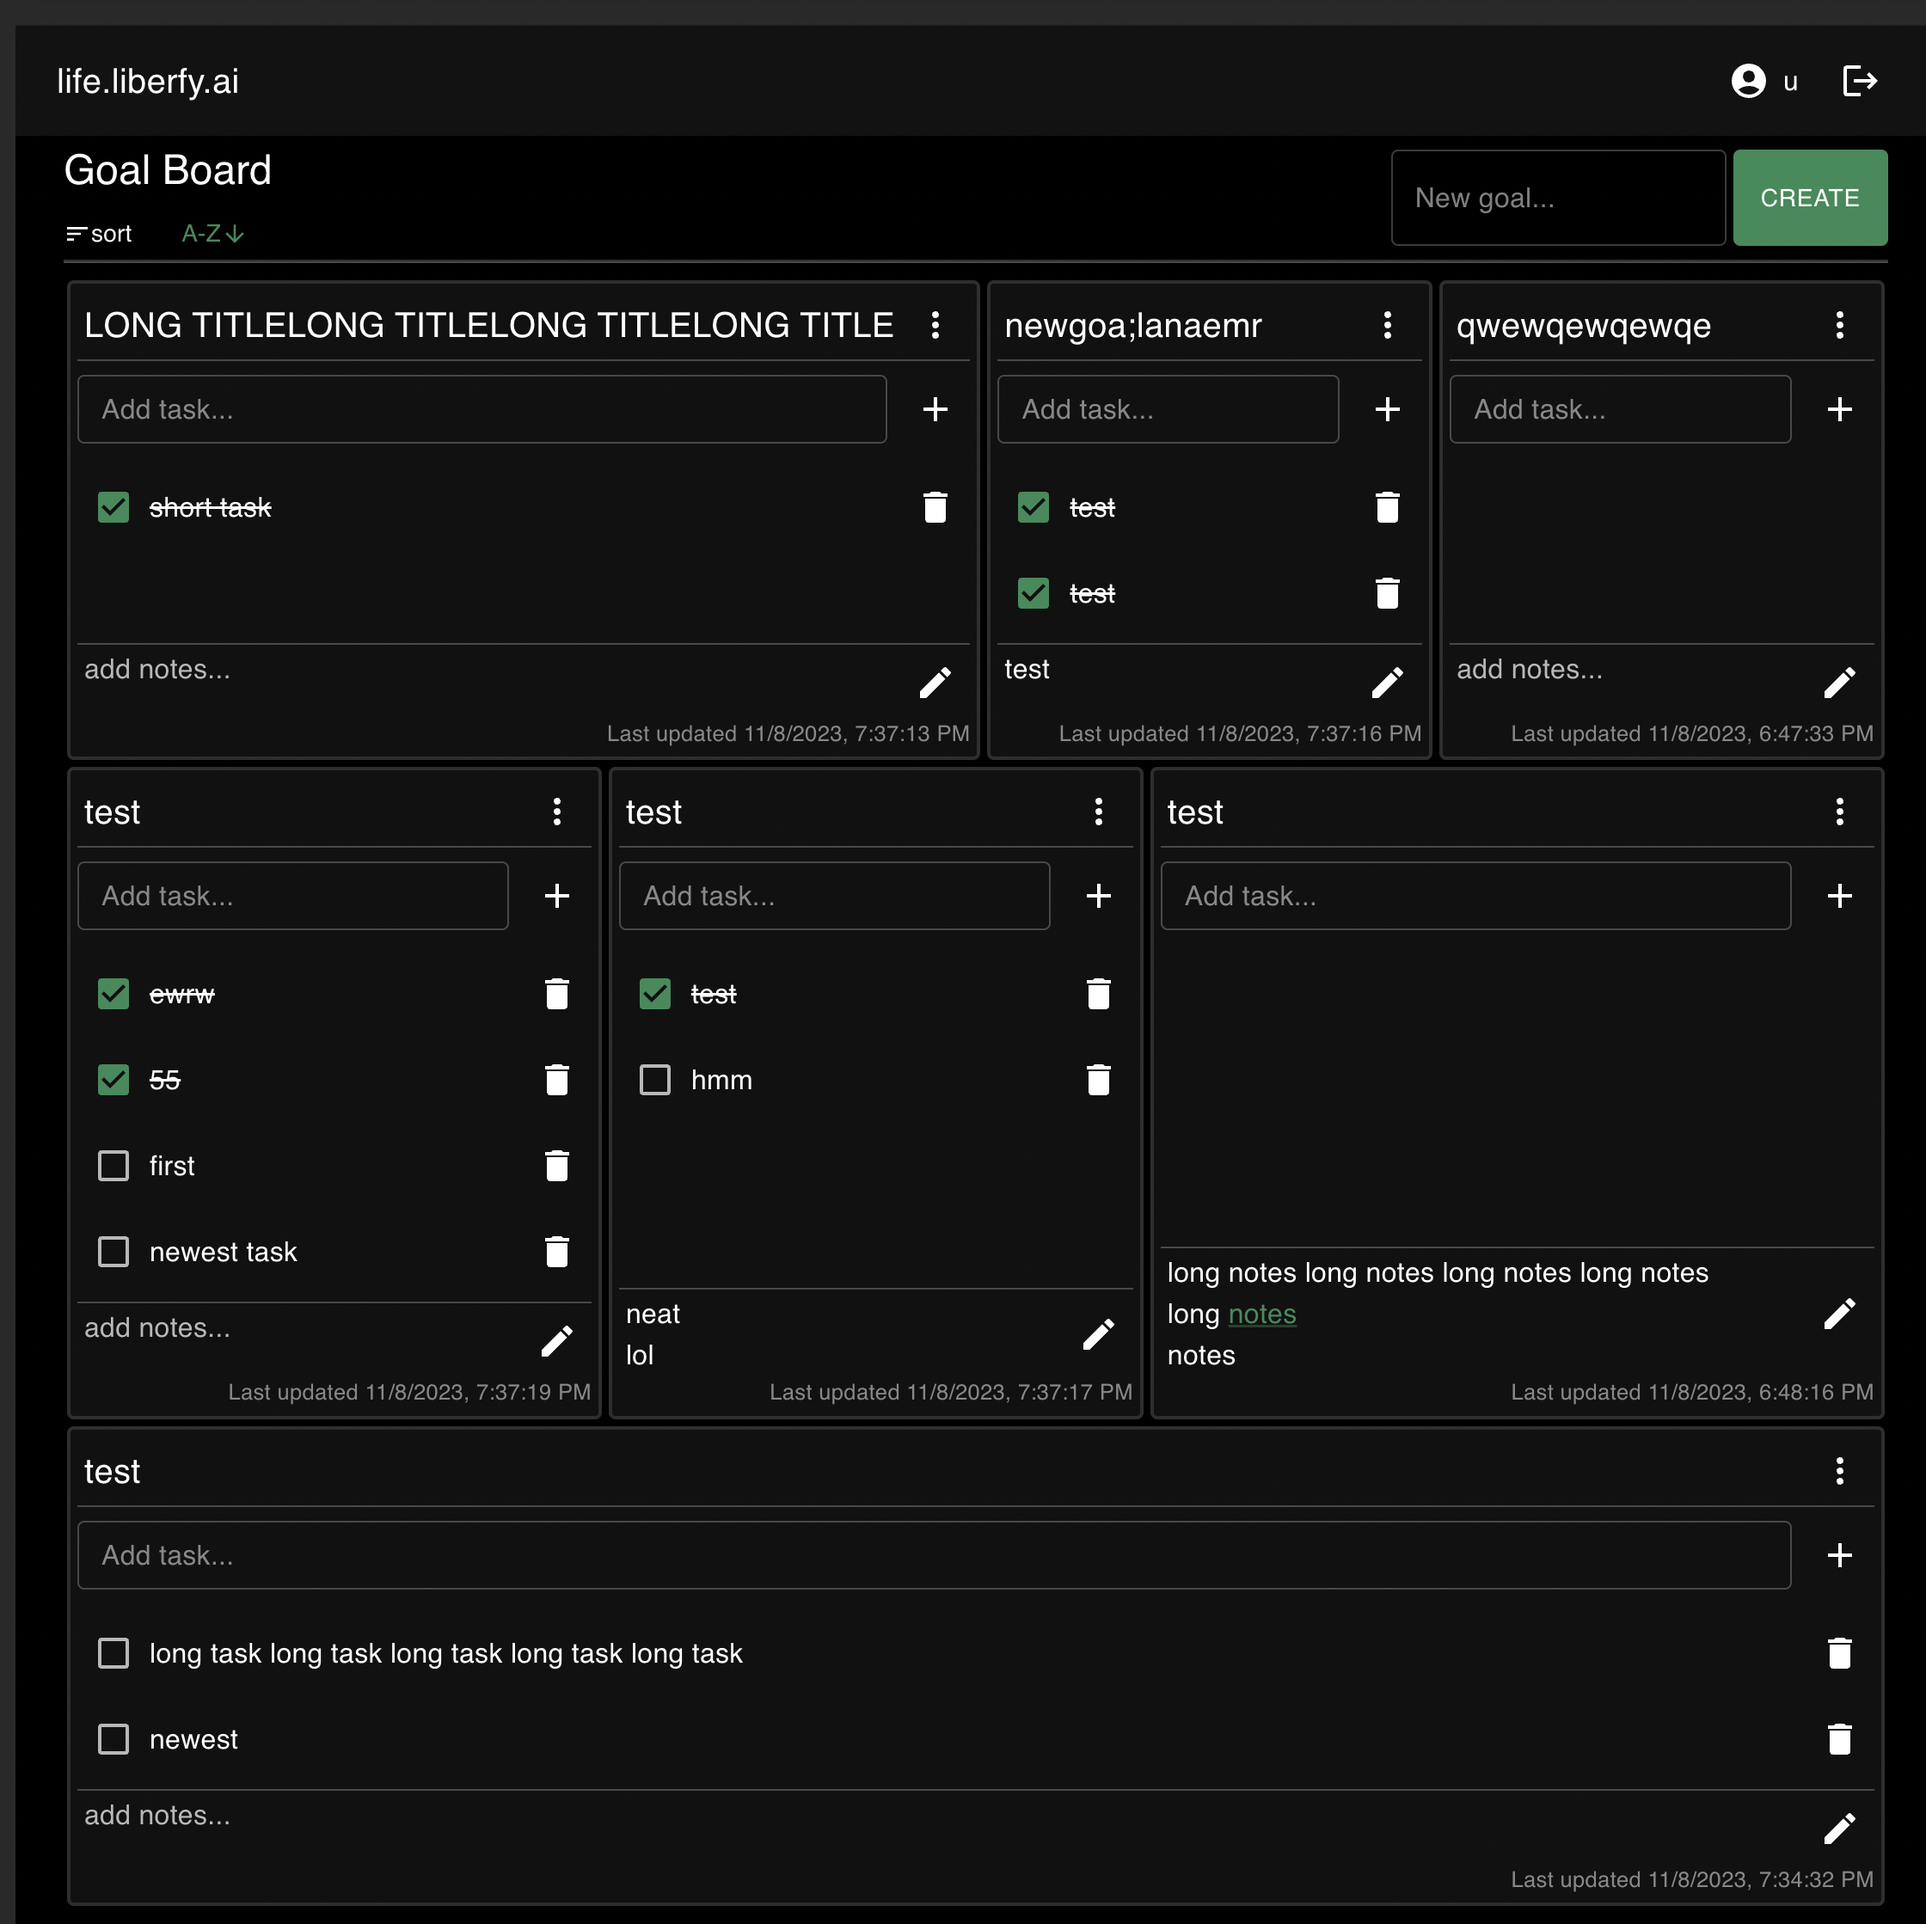
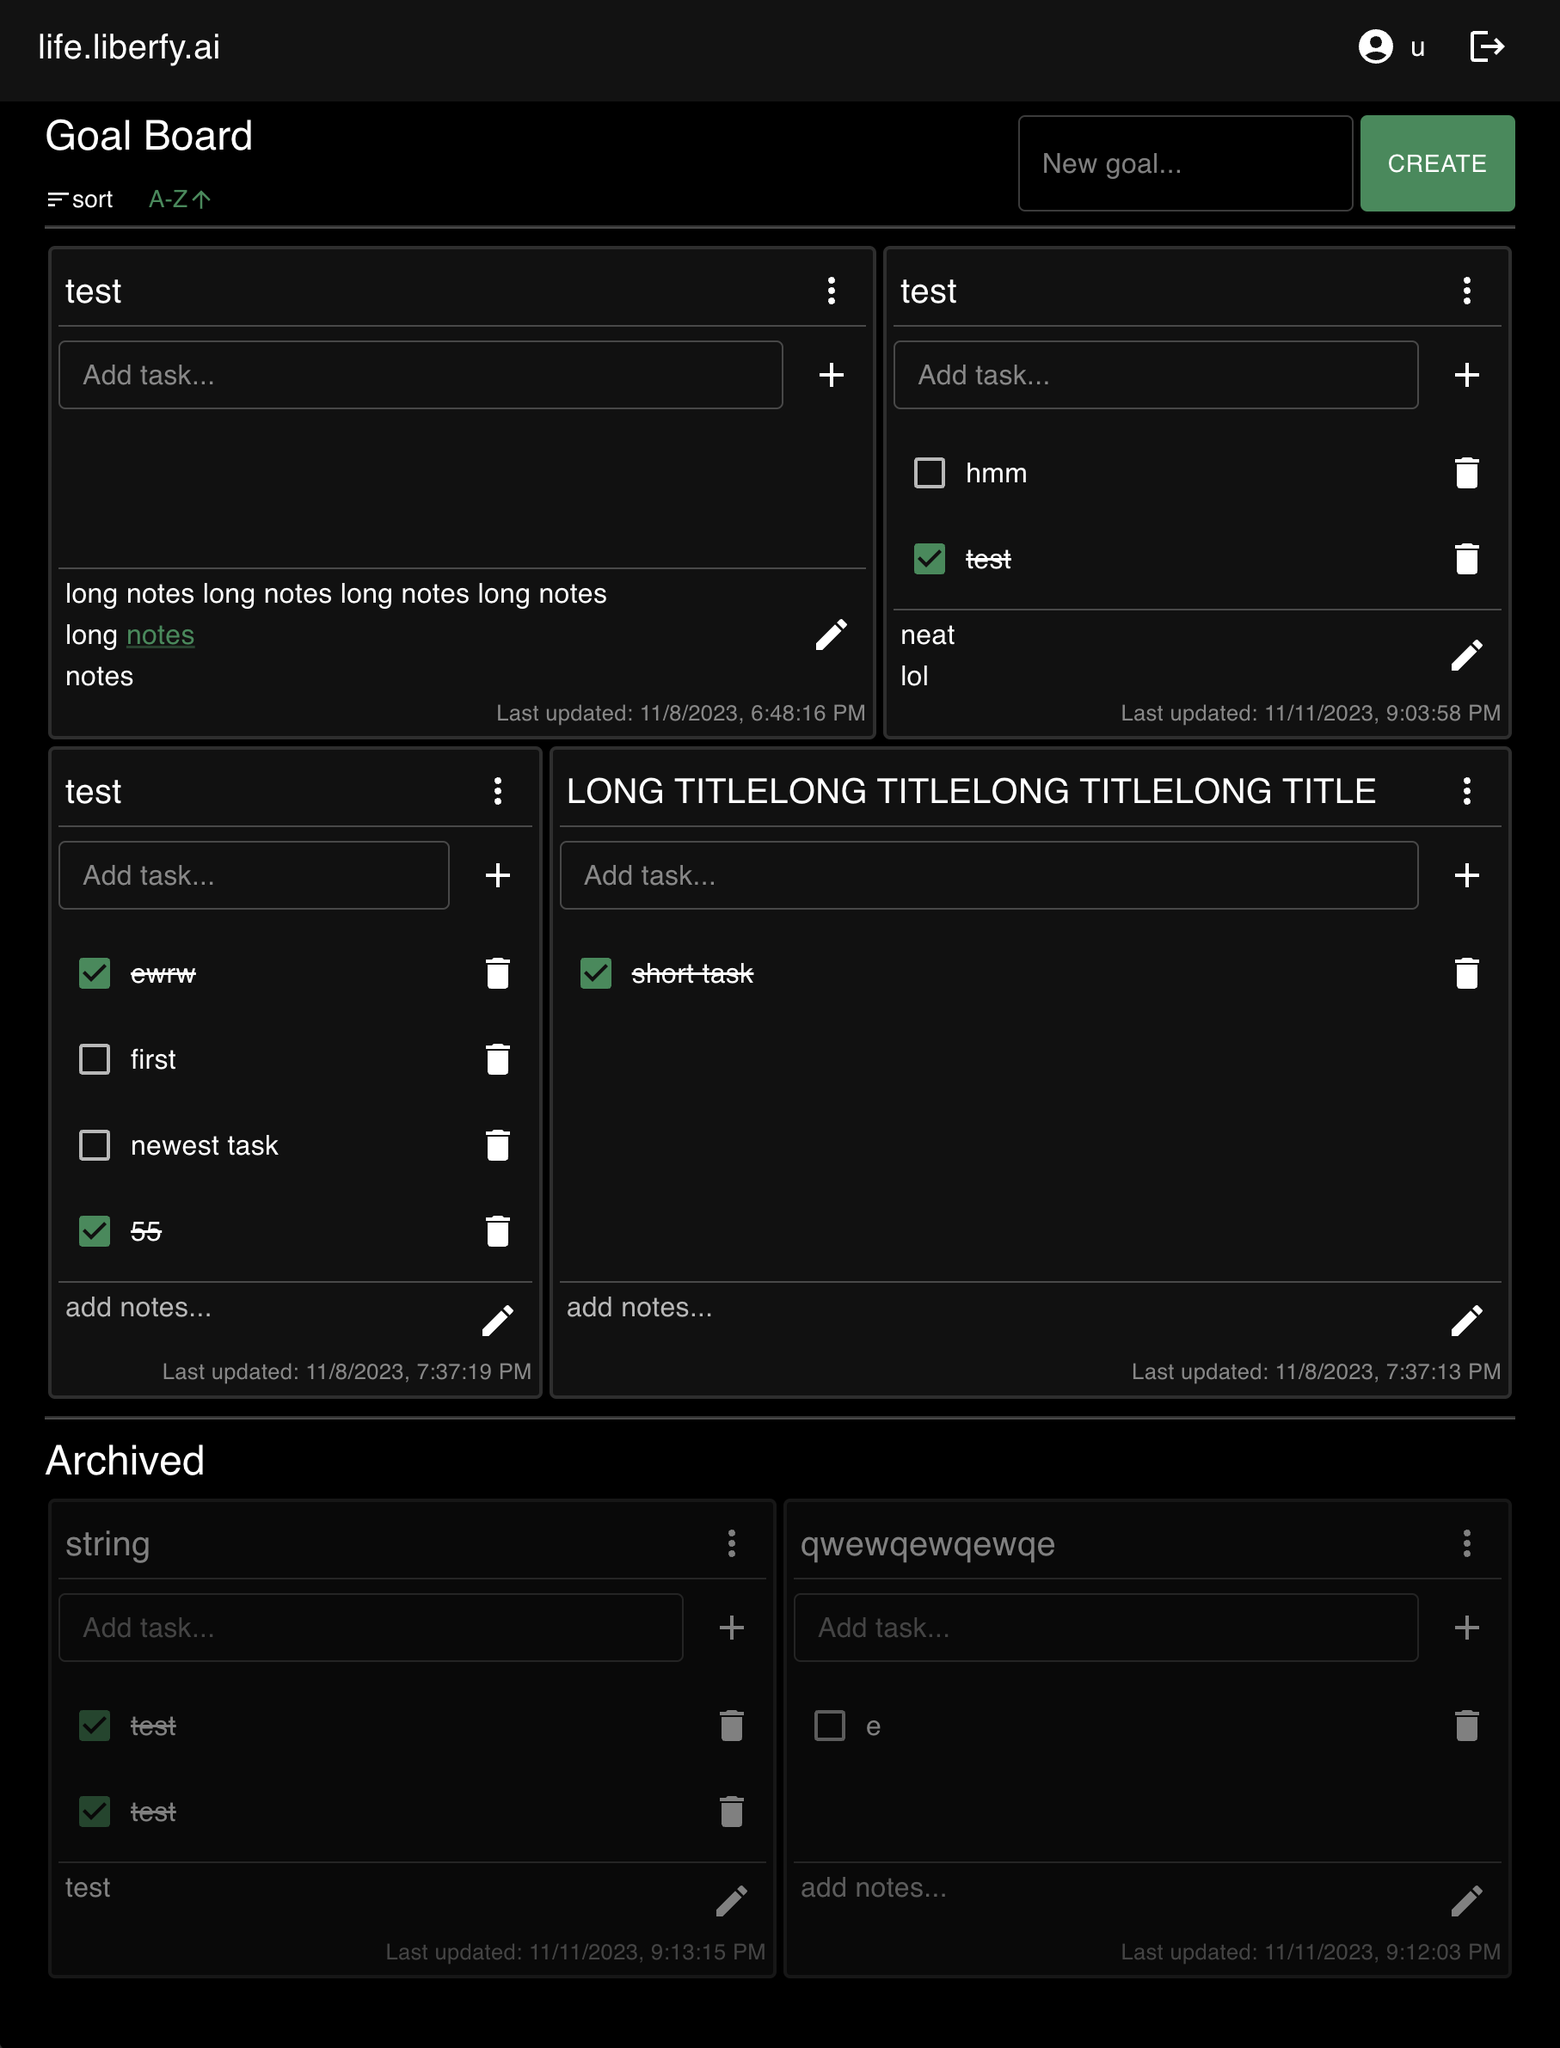
updated preview and goalboard

diff --git a/frontend/src/pages/GoalsPage/GoalBoard.tsx b/frontend/src/pages/GoalsPage/GoalBoard.tsx
@@ -28,6 +28,8 @@ const GoalBoard: React.FC<GoalBoardProps> = ({
   const [sortOrder, setSortOrder] = useState<SortOrder>(
     () => (localStorage.getItem("sortOrder") as SortOrder) || SortOrder.Default
   );
+  const [currentGoals, setCurrentGoals] = useState<GoalOut[]>([]);
+  const [archivedGoals, setArchivedGoals] = useState<GoalOut[]>([]);
 
   const handleAddGoal = async () => {
     if (newGoalText.trim()) {
@@ -89,15 +91,10 @@ const GoalBoard: React.FC<GoalBoardProps> = ({
     [goals, sortOrder]
   );
 
-  const archivedGoals = useMemo(
-    () => goals.filter((goal) => goal.archived),
-    [sortedGoals]
-  );
-
-  const currentGoals = useMemo(
-    () => goals.filter((goal) => !goal.archived),
-    [sortedGoals]
-  );
+  useEffect(() => {
+    setCurrentGoals(sortedGoals.filter((goal) => !goal.archived));
+    setArchivedGoals(sortedGoals.filter((goal) => goal.archived));
+  }, [sortedGoals]);
 
   return (
     <Box
